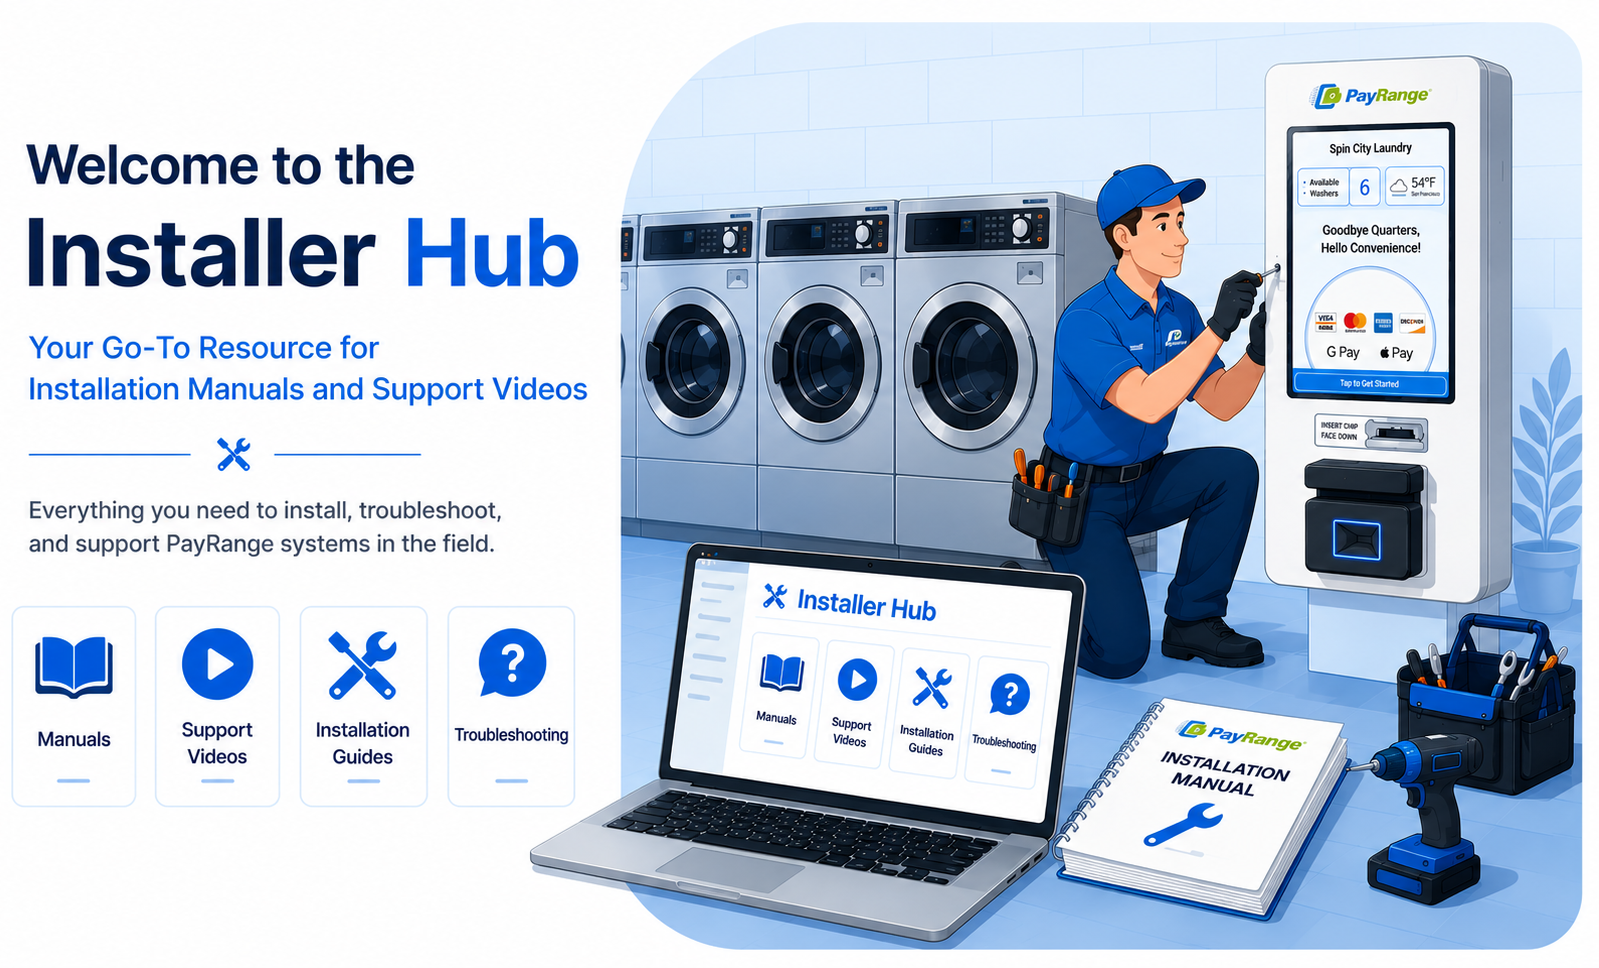
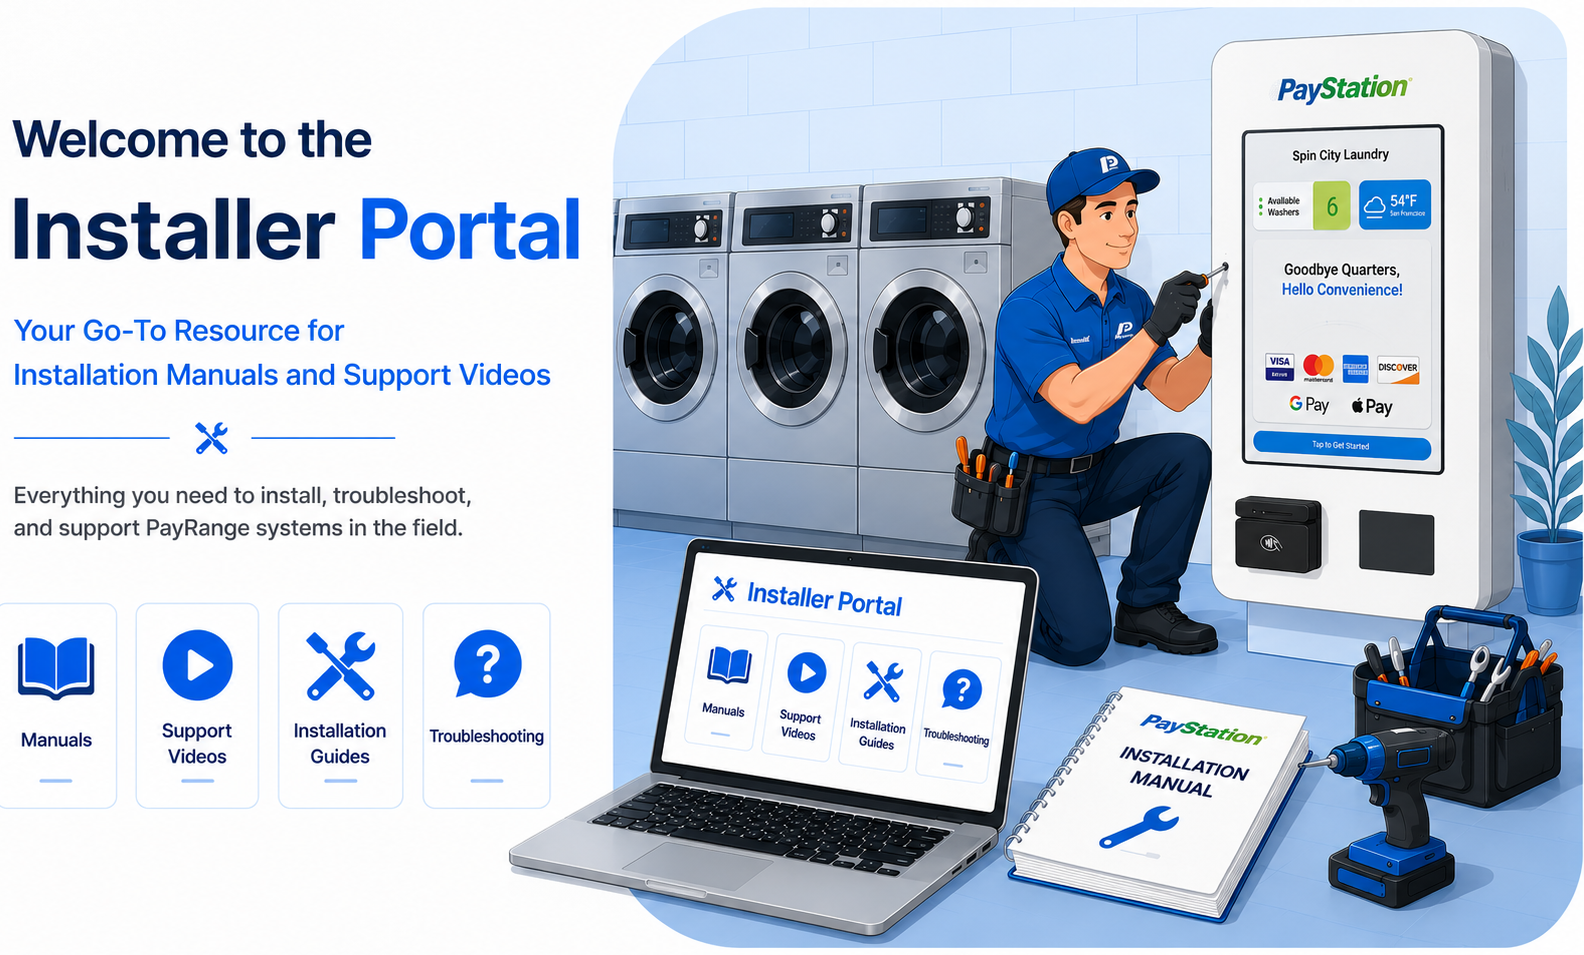
Finalizing files for initial Cloudflare deployment

diff --git a/docs/stylesheets/extra.css b/docs/stylesheets/extra.css
@@ -1,5 +1,5 @@
 /* ==========================================================
-   PAYRANGE INSTALLER HUB
+   PAYRANGE INSTALLER PORTAL
    Material for MkDocs Theme
    ========================================================== */
 
@@ -26,8 +26,7 @@ h2,
 h3,
 h4,
 h5,
-h6,
-.md-header__title {
+h6 {
     font-family: "Poppins", sans-serif !important;
     font-weight: 500 !important;
     color: #00436B !important;
@@ -368,3 +367,30 @@ body {
     padding: 14px 18px;
 }
 
+/* ==========================================
+   HEADER ANNOUNCEMENT
+   ========================================== */
+
+.md-header__title::before {
+    content: "Community Forum Coming Soon!";
+    position: absolute;
+    left: 0;
+    right: 0;
+    color: white;
+    font-size: 14px;
+    font-family: "Poppins", sans-serif;
+    font-weight: 500;
+    text-align: center;
+    pointer-events: none; 
+}
+
+.md-header__title {
+    display: flex !important;
+    justify-content: center;
+    align-items: center;
+    flex: 1;
+}
+
+.md-search {
+    margin-left: auto !important;
+}

diff --git a/docs/index.md b/docs/index.md
@@ -7,8 +7,9 @@ title: Home
 ---
 
 Need Assistance?
+
 💡 Use the search bar above to quickly locate Quick Guides, troubleshooting resources, programming instructions, and other installer documentation.
 
-📩 Can't find what you're looking for? Visit the Questions & Feedback page to request documentation, report missing information, or submit feedback.
+📩 Can't find what you're looking for? Visit the [Questions & Feedback](questions-feedback.md) page to request documentation, report missing information, or submit feedback.
 
 ---

diff --git a/docs/manage-training.md b/docs/manage-training.md
@@ -1,7 +1,7 @@
 # PayRange Manage
 
 <div style="margin-left:20px; margin-bottom:24px;">
-    <p><strong>Installer Training</strong></p>
+    <p><strong>Manage Overview</strong></p>
 
     <a href="https://vimeo.com/851414110?fl=pl&fe=vl" target="_blank">
         <img src="../images/manage-overview.png"

diff --git a/docs/troubleshooting.md b/docs/troubleshooting.md
@@ -1,7 +1,6 @@
 # System Troubleshooting
 
 Below are guides to help get you started in the troubleshooting process.
-💡 Tip: Use the search bar in the upper-right corner to quickly locate machine models, harness types, programming guides, and troubleshooting resources.
 
 ---
 
@@ -16,4 +15,3 @@ Below are guides to help get you started in the troubleshooting process.
 
 📩 Can't find what you're looking for? Visit the [Questions & Feedback](questions-feedback.md) page to request documentation, report missing information, or submit feedback.
 
-<small>**Last Updated:** June 21, 2026